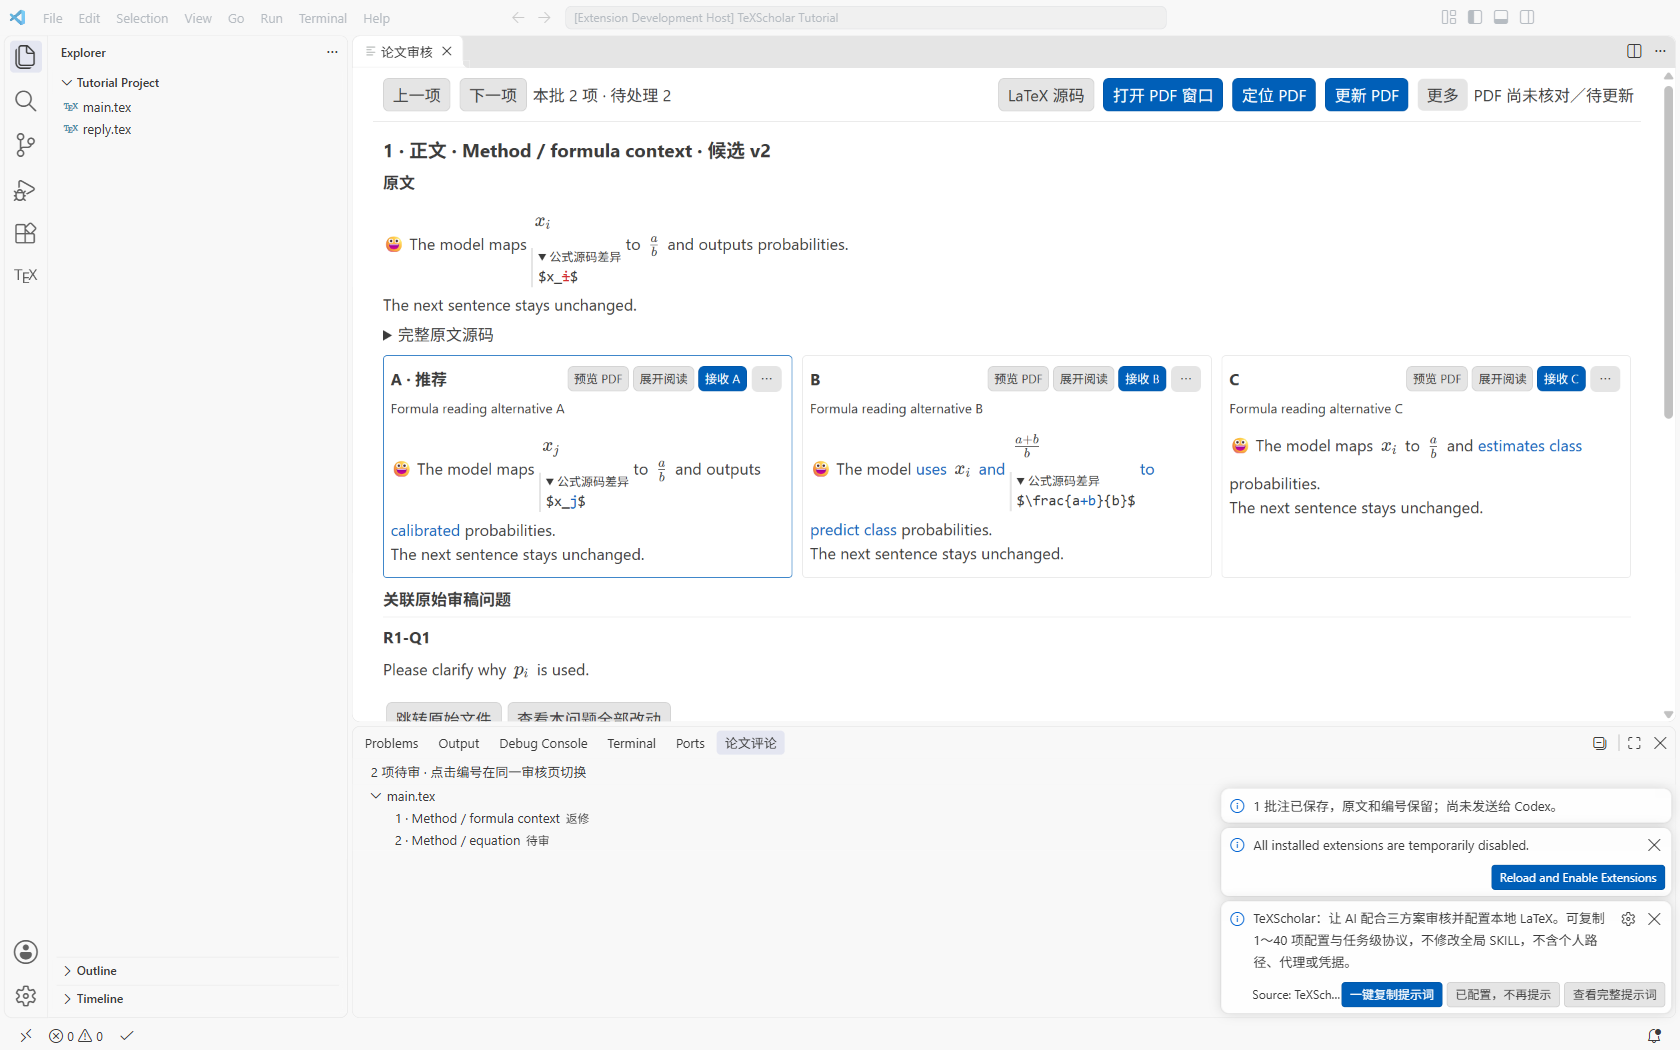
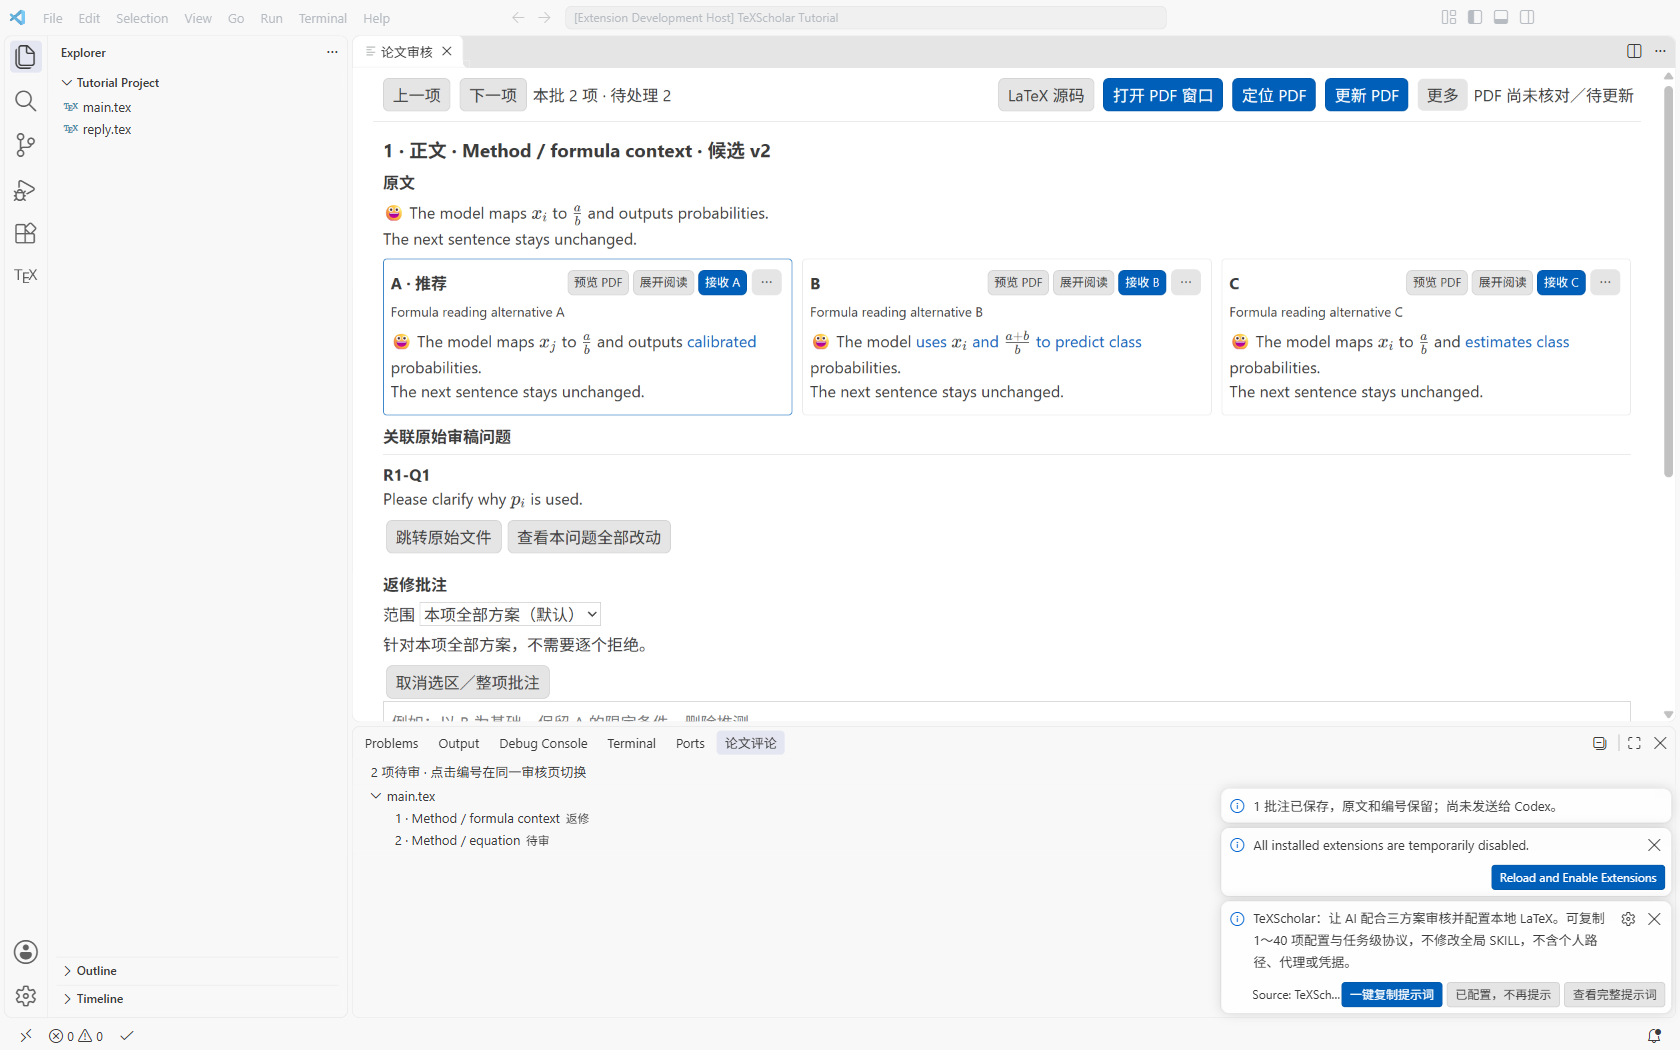
Align inline formulas naturally and remove automatic source blocks

diff --git a/src/review_workbench.js b/src/review_workbench.js
@@ -14,10 +14,10 @@ function html(nonce, assets = {}) {
 button,select,textarea{font:inherit}button{border-radius:6px;padding:4px 9px;margin:3px;border:1px solid var(--vscode-button-border,transparent);background:var(--vscode-button-background);color:var(--vscode-button-foreground);cursor:pointer}button:disabled{opacity:.5;cursor:default}button.secondary{background:var(--vscode-button-secondaryBackground);color:var(--vscode-button-secondaryForeground)}
 header{position:sticky;top:0;z-index:2;background:var(--vscode-editor-background);padding:7px;border-bottom:1px solid var(--vscode-panel-border);display:flex;flex-wrap:wrap;align-items:center;gap:3px}#layout{display:grid;grid-template-columns:minmax(0,1fr)}main{min-width:0;padding:8px 10px}h3,h4,p{margin:6px 0}small,#status,#pdfStatus{color:var(--vscode-descriptionForeground)}#status.error{color:var(--vscode-errorForeground)}section{margin:6px 0 9px}#options{display:grid;grid-template-columns:repeat(3,minmax(0,1fr));gap:10px}article{min-width:0;border:1px solid var(--vscode-panel-border);padding:7px;border-radius:4px}article.selected{border-color:var(--vscode-focusBorder)}article.focused{grid-column:1/-1}article.folded .detail{display:none}.text{white-space:pre-wrap;overflow-wrap:anywhere;word-break:break-word}.text .old{color:var(--removed);text-decoration:var(--strike)}.text .new{color:var(--added)}.text .same{color:var(--unchanged,inherit)}.zh{white-space:pre-wrap;overflow-wrap:anywhere;margin-top:5px;border-left:2px solid var(--vscode-panel-border);padding-left:8px;color:var(--vscode-descriptionForeground)}textarea,select{color:var(--vscode-input-foreground);background:var(--vscode-input-background);border:1px solid var(--vscode-input-border,var(--vscode-panel-border));max-width:100%}textarea{width:100%;min-height:90px;resize:vertical;padding:8px;white-space:pre-wrap;overflow-wrap:anywhere}textarea.edit{min-height:180px}details{margin:6px 0}pre{white-space:pre-wrap;overflow-wrap:anywhere;margin:6px 0;font:inherit}.question,.note{border-top:1px solid var(--vscode-panel-border);padding:7px 0}.note{font-size:.94em}#scope{overflow-wrap:anywhere}#translateStatus{font-size:.9em}[hidden]{display:none!important}#empty{padding:18px}
 @media(max-width:980px){#options{grid-template-columns:1fr}article.focused{grid-column:auto}}@media(max-width:650px){main{padding:8px}}
-.formula{max-width:100%;display:inline-block;vertical-align:middle}.display-formula{display:block}.math-preview{display:inline-block;max-width:100%;overflow-x:auto;overflow-y:hidden;padding:.45em .2em;white-space:normal;color:var(--unchanged,inherit)}.display-formula>.math-preview{display:block}.math-preview .katex-display{margin:.3em 0}.math-code{display:block;white-space:pre-wrap;overflow-wrap:anywhere;font-family:var(--vscode-editor-font-family);font-size:.9em}.math-source-diff{margin:2px 0 5px;border-left:2px solid var(--vscode-panel-border);padding-left:5px}.math-source-diff summary,.math-error{font-size:12px;color:var(--vscode-descriptionForeground)}.math-error{display:block}.optionHeading{display:flex;align-items:center;justify-content:space-between;gap:3px;flex-wrap:wrap}.optionHeading h4{white-space:nowrap;margin:0}.optionActions{display:flex;align-items:center;flex-wrap:wrap;margin-left:auto}.optionActions button,.optionActions summary{font-size:12px;padding:3px 6px;margin:2px}.reason{display:block;margin:3px 0 7px}.more{position:relative;display:inline-block;margin:0}.more summary{list-style:none;cursor:pointer;border-radius:6px;padding:4px 9px;margin:3px;background:var(--vscode-button-secondaryBackground);color:var(--vscode-button-secondaryForeground)}.more summary::-webkit-details-marker{display:none}.more>.menu{position:absolute;right:0;top:100%;z-index:10;min-width:210px;max-height:60vh;overflow-y:auto;padding:7px;border:1px solid var(--vscode-panel-border);border-radius:6px;background:var(--vscode-editor-background);box-shadow:0 3px 12px #0003;display:flex;flex-direction:column}.more>.menu button{text-align:left}.more>.menu label{padding:7px}header #progress{margin-right:auto}button:focus-visible,summary:focus-visible{outline:2px solid var(--vscode-focusBorder);outline-offset:2px}</style></head><body>
+.formula{display:inline;vertical-align:baseline}.math-preview{display:inline;vertical-align:baseline;white-space:normal;color:var(--unchanged,inherit);overflow-wrap:normal;word-break:normal}.display-formula{display:block;max-width:100%;overflow-x:auto;overflow-y:hidden;padding:.45em .2em}.display-formula>.math-preview{display:block}.math-preview .katex-display{margin:.3em 0}.math-error{font-size:12px;color:var(--vscode-descriptionForeground)}.optionHeading{display:flex;align-items:center;justify-content:space-between;gap:3px;flex-wrap:wrap}.optionHeading h4{white-space:nowrap;margin:0}.optionActions{display:flex;align-items:center;flex-wrap:wrap;margin-left:auto}.optionActions button,.optionActions summary{font-size:12px;padding:3px 6px;margin:2px}.reason{display:block;margin:3px 0 7px}.more{position:relative;display:inline-block;margin:0}.more summary{list-style:none;cursor:pointer;border-radius:6px;padding:4px 9px;margin:3px;background:var(--vscode-button-secondaryBackground);color:var(--vscode-button-secondaryForeground)}.more summary::-webkit-details-marker{display:none}.more>.menu{position:absolute;right:0;top:100%;z-index:10;min-width:210px;max-height:60vh;overflow-y:auto;padding:7px;border:1px solid var(--vscode-panel-border);border-radius:6px;background:var(--vscode-editor-background);box-shadow:0 3px 12px #0003;display:flex;flex-direction:column}.more>.menu button{text-align:left}.more>.menu label{padding:7px}header #progress{margin-right:auto}button:focus-visible,summary:focus-visible{outline:2px solid var(--vscode-focusBorder);outline-offset:2px}</style></head><body>
 <header><button data-action="previous" class="secondary">上一项</button><button data-action="next" class="secondary">下一项</button><span id="progress"></span><button data-action="mathMode" class="secondary" id="mathMode" aria-pressed="false" title="切换审核页公式预览／完整 LaTeX 源码，不保存、不编译">LaTeX 源码</button><button data-action="reopen">打开 PDF 窗口</button><button data-action="locate">定位 PDF</button><button data-action="pdf">更新 PDF</button><details class="more"><summary>更多</summary><div class="menu"><button data-action="start">开始 AI 论文任务</button><button data-action="connect">连接 Codex</button><button data-action="translate">翻译／重试当前项</button><button data-action="provider">切换翻译来源</button><button data-action="toggleChinese">显示／收起中文</button><label><input type="checkbox" id="compare">PDF 对比本项全部方案</label><button data-action="source">定位 LaTeX 原文</button><button data-action="copy">复制 AI 三方案规则</button><button data-action="handoff">全部批注加入 Codex</button><button data-action="finish">本批审完</button></div></details><span id="pdfStatus">PDF 尚未核对</span></header>
 <div id="layout"><main><div id="empty" hidden>本批没有可操作的待审项。已接收成果请在本批审完后备份。</div><div id="review"><h3 id="title"></h3>
-<section><h4>原文</h4><div id="original" class="text" data-side="original"></div><div id="originalZh" class="zh"></div><details><summary>完整原文源码</summary><pre id="originalSource"></pre></details></section>
+<section><h4>原文</h4><div id="original" class="text" data-side="original"></div><div id="originalZh" class="zh"></div></section>
 <div id="translateStatus"></div>
 <section id="options"></section><p id="fewer"></p><section><h4>关联原始审稿问题</h4><div id="questions"></div></section>
 <section><h4>返修批注</h4><label>范围 <select id="scopeChoice"><option value="group">本项全部方案（默认）</option><option value="original">完整原文</option></select></label><p id="scope">未划词时可以直接填写整项要求。</p><button data-action="whole" class="secondary">取消选区／整项批注</button><textarea id="note" placeholder="例如：以 B 为基础，保留 A 的限定条件，删除推测。"></textarea><button data-action="note" data-write>保存返修批注</button><button data-action="reject" data-write class="secondary">拒绝本项全部候选</button><div id="notes"></div></section></div><p id="status" role="status" aria-live="polite"></p></main></div>

diff --git a/src/review_math.js b/src/review_math.js
@@ -107,21 +107,18 @@
                 let denied = false;
                 katex.render(previewTex(part.tex), preview, {displayMode: part.display, throwOnError: true,
                     trust: () => {denied = true; return false;}, output: 'htmlAndMathml', strict: 'warn'});
-                if (denied) error = '此公式含外链、HTML 或资源命令，阅读预览不执行，已保留准确源码。';
+                if (denied) error = '此公式含外链、HTML 或资源命令，阅读预览不执行。请切换 LaTeX 源码查看。';
             }
-            catch (e) {if (!(e instanceof katex.ParseError)) throw e; error = '此公式暂不能预览，已显示准确源码：' + e.message;}
+            catch (e) {if (!(e instanceof katex.ParseError)) throw e; error = e.message;}
             if (error) {
-                const notice = doc.createElement('small'); notice.className = 'math-error'; notice.textContent = error;
-                formula.appendChild(notice); plain(formula, part.start, part.end);
+                const notice = doc.createElement('small'); notice.className = 'math-error';
+                notice.textContent = '［公式暂无法预览，请切换 LaTeX 源码］'; notice.title = error;
+                formula.appendChild(notice);
+                model.anchors.push({node: notice, start: part.start, end: part.end, atomic: true});
             } else {
                 formula.appendChild(preview);
                 preview.title = '预览中的公式选区按整式绑定；细部请切换 LaTeX 源码。';
                 model.anchors.push({node: preview, start: part.start, end: part.end, atomic: true});
-                if (ranges.some(([a, b]) => a < b && model.offsets[part.start] < b && model.offsets[part.end - 1] + 1 > a)) {
-                    const source = doc.createElement('details'); source.className = 'math-source-diff'; source.open = true;
-                    const title = doc.createElement('summary'); title.textContent = '公式源码差异'; source.appendChild(title);
-                    const code = doc.createElement('span'); code.className = 'math-code'; plain(code, part.start, part.end); source.appendChild(code); formula.appendChild(source);
-                }
             }
             fragment.appendChild(formula);
         }

diff --git a/src/review_workbench_client.js b/src/review_workbench_client.js
@@ -175,7 +175,6 @@ window.addEventListener('message', ({data: message}) => {
         if (!saved) {translatedText.clear(); drafts.clear(); selected = undefined; focused = undefined; $('compare').checked = false; $('options').replaceChildren(); $('note').value = ''; $('originalZh').textContent = ''; $('questions').dataset.signature = '';}
         else drafts.delete(message.option);
         renderText($('original'), data.original, options.find(o => o.label === preview)?.changes || options[0].changes, 'original');
-        $('originalSource').textContent = data.original;
         for (const o of options) if (!saved || o.label === message.option) renderOption(o);
         $('scopeChoice').innerHTML = '<option value="group">本项全部方案（默认）</option><option value="original">完整原文</option>' + options.map(o => '<option value="' + o.label + '">方案 ' + o.label + ' 整体</option>').join('');
         scope(); renderNotes(data.edit.requests || []); renderQuestions(data.edit.questions || []);

diff --git a/src/review_workbench.test.js b/src/review_workbench.test.js
@@ -55,4 +55,5 @@ test('fixed workbench reuses one tab, retains precise B notes, unsaved drafts an
     assert(page.includes('nonce="nonce-test" src="vscode-resource:/katex.min.js"'));
     assert(page.includes('href="vscode-resource:/katex.min.css"'));
     assert(page.includes('id="mathMode"'));
+    assert(!page.includes('id="originalSource"'), 'full source is available through the mode button, not a second source block');
 });

diff --git a/src/mcp_server.py b/src/mcp_server.py
@@ -140,7 +140,7 @@ class Server:
         if method == 'initialize':
             requested = request.get('params', {}).get('protocolVersion')
             return {'jsonrpc': '2.0', 'id': id_, 'result': {'protocolVersion': requested if requested in {'2024-11-05', '2025-03-26', '2025-06-18'} else '2025-03-26',
-                    'serverInfo': {'name': 'texscholar', 'version': '0.9.3'}, 'capabilities': {'tools': {}}, 'instructions': INSTRUCTIONS}}
+                    'serverInfo': {'name': 'texscholar', 'version': '0.9.4'}, 'capabilities': {'tools': {}}, 'instructions': INSTRUCTIONS}}
         if method == 'ping':
             result = {}
         elif method == 'tools/list':

diff --git a/README.md b/README.md
@@ -589,11 +589,11 @@ Thumbs.db
 |---|---|
 | 给普通文字划词批注 | 在预览或源码中直接选词，照常保存返修要求 |
 | 针对整条公式批注 | 选中预览中的公式，范围自动绑定该式的完整原始 LaTeX，不按渲染后的字符猜位置 |
-| 只批注分子、下标或某个命令 | 切到 **LaTeX 源码**再选准确文字；有变化公式下方的源码差异区也能精准划选 |
-| 查看公式哪里变了 | 对照公式下方默认展开的 **公式源码差异**，只给实际变化的源字符标色；可收起，不把整条未改部分一并涂红 |
+| 只批注分子、下标或某个命令 | 切到 **LaTeX 源码**再选准确文字；不自动插入任何源码块 |
+| 查看公式哪里变了 | 在 **审核 PDF** 中对照公式差异；审核页只排版公式，不附加源码差异或给整式涂色 |
 | 自己改候选公式 | 从该方案的 **⋯ → 编辑候选**修改真实 LaTeX，保存后更新预览；不会把渲染 HTML 写进候选 |
 
-预览仅是阅读辅助，不是完整 TeX 编译器。自定义宏或不支持的语法会明确说明并显示准确源码，不隐藏整式。`\label` 在阅读预览中不显示，但在原文、候选、批注和源码模式中完整保留；编号、跨文档引用、期刊字体及最终排版以实际 PDF 为准。不要让 AI 为了迁就预览去删除标签、改数学含义或替换期刊宏。过宽公式只在自身区域滚动，不拉宽整页。
+预览仅是阅读辅助，不是完整 TeX 编译器。自定义宏或不支持的语法会在原位给出简短提示，不展示错误公式；需要源码时统一点顶部 **LaTeX 源码**。`\label` 在阅读预览中不显示，但在原文、候选、批注和源码模式中完整保留；编号、跨文档引用、期刊字体及最终排版以实际 PDF 为准。不要让 AI 为了迁就预览去删除标签、改数学含义或替换期刊宏。行内公式沿正文自然基线排列；独立公式过宽时只在自身区域滚动。
 
 现有 Ultra Math Preview、LaTeX Workshop 和 LaTeX Visual Editor 保持原样，可继续在 `.tex` 编辑时使用。它们的编辑器预览入口不能直接嵌入本插件的 A/B/C 审核布局；本页复用 KaTeX 开源排版引擎，不修改它们的代码或借用未公开内部对象。
 
